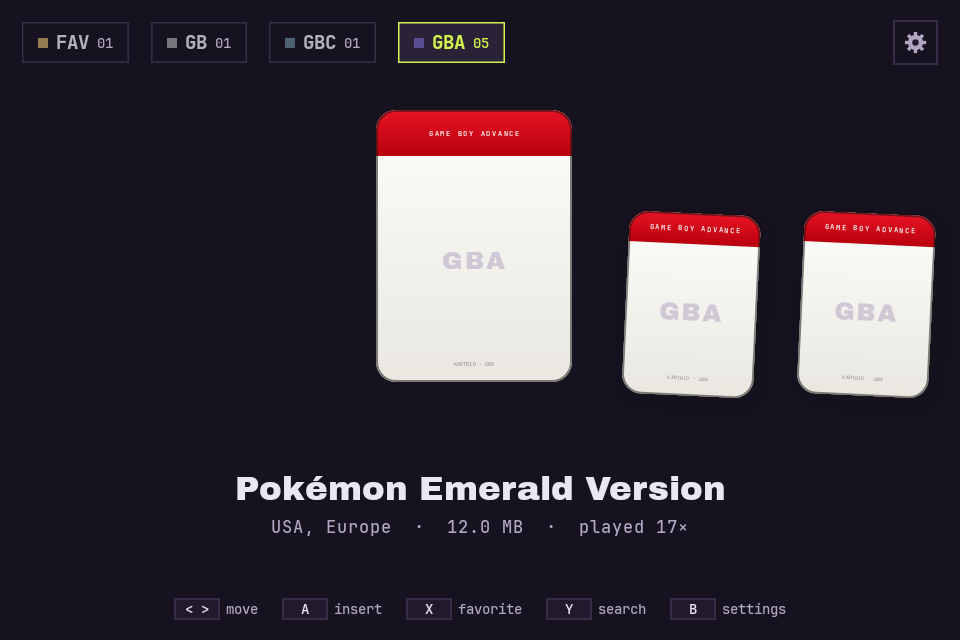
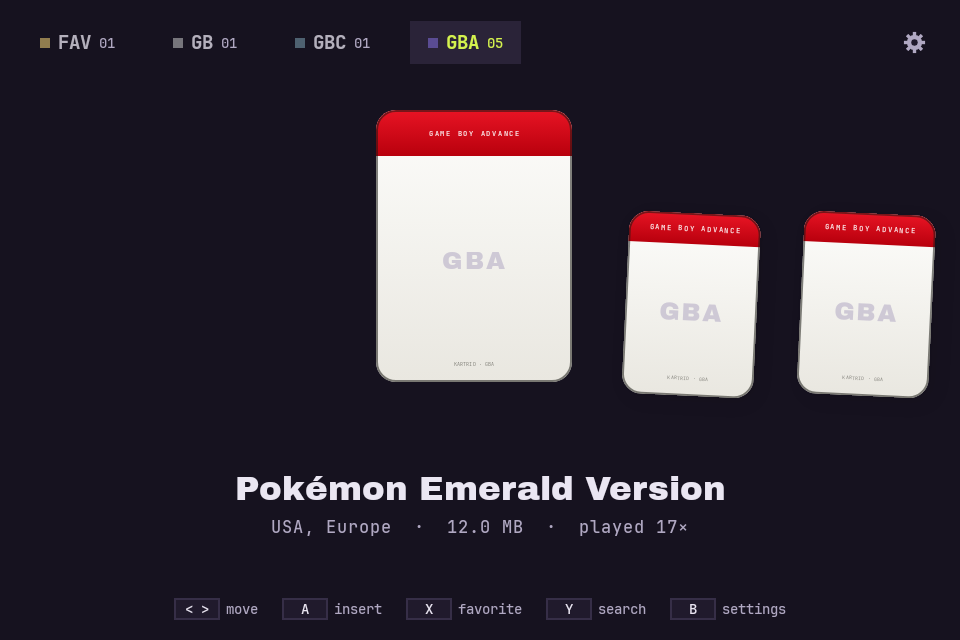
navbar borderless + highlight; gear tanpa border; search: field fokus+keyboard+filter, thumb square Fit, hint box solid

diff --git a/android/app/src/main/java/id/iqbaldev/kartrid/ui/ListScreen.kt b/android/app/src/main/java/id/iqbaldev/kartrid/ui/ListScreen.kt
@@ -6,6 +6,7 @@ import androidx.compose.foundation.background
 import androidx.compose.foundation.border
 import androidx.compose.foundation.clickable
 import androidx.compose.foundation.focusable
+import androidx.compose.foundation.text.BasicTextField
 import androidx.compose.foundation.layout.Arrangement
 import androidx.compose.foundation.layout.Box
 import androidx.compose.foundation.layout.Column
@@ -33,10 +34,14 @@ import androidx.compose.ui.focus.focusRequester
 import androidx.compose.ui.geometry.Offset
 import androidx.compose.ui.geometry.Size
 import androidx.compose.ui.graphics.ImageBitmap
+import androidx.compose.ui.graphics.SolidColor
 import androidx.compose.ui.input.key.KeyEventType
 import androidx.compose.ui.input.key.onPreviewKeyEvent
 import androidx.compose.ui.input.key.type
 import androidx.compose.ui.layout.ContentScale
+import androidx.compose.ui.platform.LocalSoftwareKeyboardController
+import androidx.compose.ui.text.TextStyle
+import androidx.compose.ui.text.font.FontWeight
 import androidx.compose.ui.text.style.TextOverflow
 import androidx.compose.ui.unit.dp
 import androidx.compose.ui.unit.sp
@@ -65,8 +70,14 @@ fun ListScreen(
     sfx: Sfx,
 ) {
     var sel by remember { mutableStateOf(0) }
+    var query by remember { mutableStateOf("") }
     val fr = remember { FocusRequester() }
-    val list = games
+    val searchFr = remember { FocusRequester() }
+    val kb = LocalSoftwareKeyboardController.current
+    val list = remember(games, query) {
+        if (query.isBlank()) games
+        else games.filter { it.title.contains(query.trim(), ignoreCase = true) }
+    }
     val selSafe = sel.coerceIn(0, (list.size - 1).coerceAtLeast(0))
 
     val window = remember(selSafe, list.size) {
@@ -156,8 +167,42 @@ fun ListScreen(
             Text("${list.size} games", color = T.mutedFg, fontFamily = MONO, fontSize = 13.sp)
         }
 
+        // field pencarian — fokus otomatis, keyboard langsung muncul
+        Row(
+            Modifier
+                .offset(y = 48.dp)
+                .fillMaxWidth()
+                .padding(horizontal = 22.dp)
+                .height(42.dp)
+                .background(T.surface.copy(alpha = 0.95f))
+                .border(1.5.dp, T.hairline)
+                .padding(horizontal = 14.dp),
+            verticalAlignment = Alignment.CenterVertically,
+        ) {
+            Text(">", color = T.lime, fontFamily = MONO, fontSize = 13.sp, fontWeight = FontWeight.Bold)
+            Box(Modifier.width(10.dp))
+            BasicTextField(
+                value = query,
+                onValueChange = { query = it },
+                modifier = Modifier
+                    .fillMaxWidth()
+                    .focusRequester(searchFr),
+                textStyle = TextStyle(color = T.fg, fontFamily = MONO, fontSize = 13.sp),
+                cursorBrush = SolidColor(T.lime),
+                singleLine = true,
+                decorationBox = { inner ->
+                    Box(Modifier.fillMaxWidth()) {
+                        if (query.isEmpty()) {
+                            Text("SEARCH…", color = T.mutedFg, fontFamily = MONO, fontSize = 13.sp)
+                        }
+                        inner()
+                    }
+                },
+            )
+        }
+
         // daftar
-        Column(Modifier.offset(y = 46.dp).padding(start = 22.dp)) {
+        Column(Modifier.offset(y = 104.dp).padding(start = 22.dp)) {
             for (i in window) {
                 val g = list[i]
                 val on = i == selSafe
@@ -183,7 +228,7 @@ fun ListScreen(
                         Box(Modifier.padding(start = 8.dp))
                         Box(
                             Modifier
-                                .size(46f.tdp, 30f.tdp)
+                                .size(46f.tdp)
                                 .border(1.5.dp, T.black)
                                 .background(shellColor(g.sys.shell, on)),
                             contentAlignment = Alignment.Center,
@@ -193,8 +238,8 @@ fun ListScreen(
                                 Image(
                                     bitmap = bmp,
                                     contentDescription = null,
-                                    modifier = Modifier.fillMaxSize().padding(3.dp),
-                                    contentScale = ContentScale.Crop,
+                                    modifier = Modifier.fillMaxSize().padding(2.dp),
+                                    contentScale = ContentScale.Fit,
                                     alpha = if (on) 1f else 0.72f,
                                 )
                             } else {
@@ -237,7 +282,7 @@ fun ListScreen(
         // rail A–Z
         Column(
             Modifier
-                .offset(x = 800.dp, y = 52.dp)
+                .offset(x = 800.dp, y = 108.dp)
                 .padding(start = 8.dp, end = 8.dp),
         ) {
             for ((c, _) in initials) {
@@ -254,24 +299,38 @@ fun ListScreen(
             }
         }
 
-        // hint
+        // hint: satu box solid biar kebaca di atas daftar
         Row(
             Modifier
                 .fillMaxWidth()
-                .offset(y = 592.dp),
+                .offset(y = 588.dp),
             horizontalArrangement = Arrangement.Center,
         ) {
-            HintItem("L1 R1", "10 rows")
-            Box(Modifier.width(22.dp))
-            HintItem("A", "play")
-            Box(Modifier.width(22.dp))
-            HintItem("X", "switch system")
-            Box(Modifier.width(22.dp))
-            HintItem("B", "back")
+            Box(
+                Modifier
+                    .background(T.surface)
+                    .border(1.5.dp, T.hairline)
+                    .padding(horizontal = 22.dp, vertical = 10.dp),
+            ) {
+                Row(
+                    horizontalArrangement = Arrangement.spacedBy(22.dp),
+                    verticalAlignment = Alignment.CenterVertically,
+                ) {
+                    HintItem("A", "play")
+                    HintItem("X", "system")
+                    HintItem("B", "back")
+                }
+            }
         }
     }
 
+    LaunchedEffect(query) {
+        sel = 0
+    }
+
     LaunchedEffect(Unit) {
+        runCatching { searchFr.requestFocus() }
+        kb?.show()
         runCatching { fr.requestFocus() }
     }
 }

diff --git a/android/app/src/main/java/id/iqbaldev/kartrid/ui/ShelfScreen.kt b/android/app/src/main/java/id/iqbaldev/kartrid/ui/ShelfScreen.kt
@@ -281,40 +281,32 @@ fun ShelfScreen(
             horizontalArrangement = Arrangement.spacedBy(22.dp),
         ) {
             for (s in Tab.list) {
-                val on = s == tab
-                Row(
-                    Modifier
-                        .clickable { onTab(s); sfx.tick() }
-                        .drawBehind {
-                            // pod angular ala console launcher (bukan underline web)
-                            if (on) drawRect(T.muted)
-                            val e = if (on) T.lime else T.hairline
-                            drawRect(e, topLeft = Offset(0f, 0f), size = Size(size.width, 1.5f))
-                            drawRect(e, topLeft = Offset(0f, size.height - 1.5f), size = Size(size.width, 1.5f))
-                            drawRect(e, topLeft = Offset(0f, 0f), size = Size(1.5f, size.height))
-                            drawRect(e, topLeft = Offset(size.width - 1.5f, 0f), size = Size(1.5f, size.height))
+                        val on = s == tab
+                        Row(
+                            Modifier
+                                .clickable { onTab(s); sfx.tick() }
+                                .drawBehind { if (on) drawRect(T.muted) }
+                                .padding(horizontal = 18.dp, vertical = 9.dp),
+                            verticalAlignment = Alignment.CenterVertically,
+                        ) {
+                            Box(Modifier.size(10.dp, 10.dp).background(shellColor(s.sys?.shell ?: FAV_SHELL, on)))
+                            Box(Modifier.width(8.dp))
+                            Text(
+                                text = s.label,
+                                color = if (on) T.lime else T.fg.copy(alpha = 0.75f),
+                                fontFamily = MONO,
+                                fontSize = 15.sp,
+                                fontWeight = FontWeight.Bold,
+                            )
+                            Box(Modifier.width(8.dp))
+                            Text(
+                                text = (counts[s.key] ?: 0).toString().padStart(2, '0'),
+                                color = if (on) T.lime else T.mutedFg,
+                                fontFamily = MONO,
+                                fontSize = 11.sp,
+                            )
                         }
-                        .padding(horizontal = 16.dp, vertical = 8.dp),
-                    verticalAlignment = Alignment.CenterVertically,
-                ) {
-                    Box(Modifier.size(10.dp, 10.dp).background(shellColor(s.sys?.shell ?: FAV_SHELL, on)))
-                    Box(Modifier.width(8.dp))
-                    Text(
-                        text = s.label,
-                        color = if (on) T.lime else T.fg.copy(alpha = 0.75f),
-                        fontFamily = MONO,
-                        fontSize = 15.sp,
-                        fontWeight = FontWeight.Bold,
-                    )
-                    Box(Modifier.width(8.dp))
-                    Text(
-                        text = (counts[s.key] ?: 0).toString().padStart(2, '0'),
-                        color = if (on) T.lime else T.mutedFg,
-                        fontFamily = MONO,
-                        fontSize = 11.sp,
-                    )
-                }
-            }
+                    }
             Box(Modifier.weight(1f))
 
             if (scanning || artRunning) {
@@ -327,8 +319,7 @@ fun ShelfScreen(
             }
             Box(
                 Modifier
-                    .size(30f.tdp)
-                    .border(1.5.dp, T.hairline)
+                    .size(32f.tdp)
                     .clickable { onSettings(); sfx.tick() },
                 contentAlignment = Alignment.Center,
             ) {
